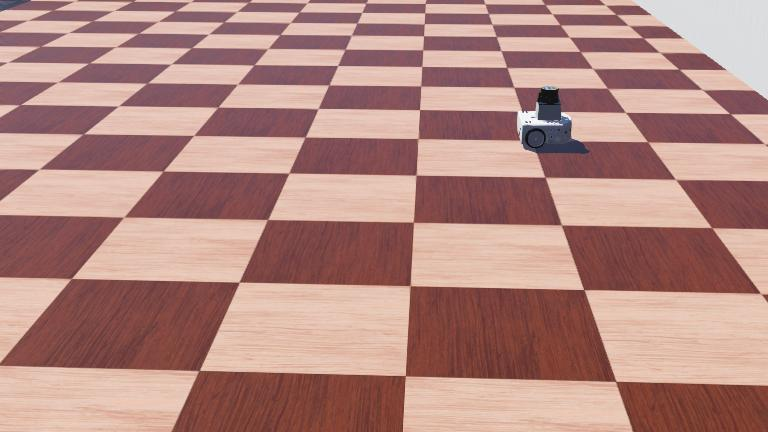
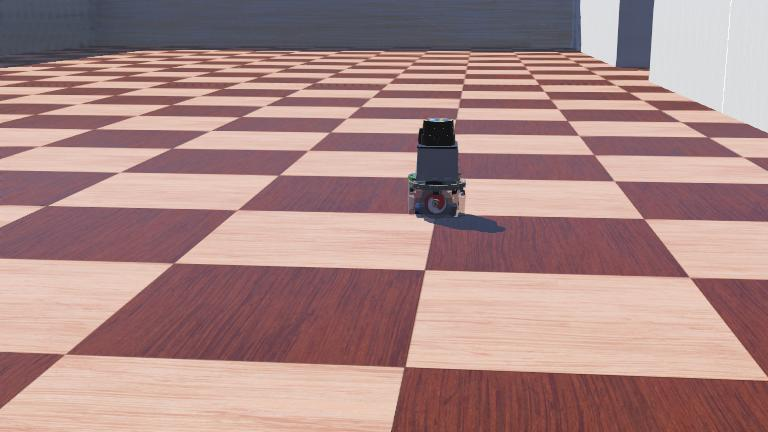
Basic odometry

diff --git a/controllers/lidar_python/lidar_python.py b/controllers/lidar_python/lidar_python.py
@@ -1,71 +1,64 @@
-"""lidar_python controller."""
+#!/usr/bin/env python3
 
-# You may need to import some classes of the controller module. Ex:
-#  from controller import Robot, Motor, DistanceSensor
+"""lidar_python controller."""
 from controller import Robot
 from controller import Motor
 from controller import LidarPoint
-
-import sys
-print("Python version")
-print (sys.path)
-
 import numpy as np
 
-# create the Robot instance.
+
 robot = Robot()
-print(robot.getNumberOfDevices())
-for i in range(robot.getNumberOfDevices()):
-    a = robot.getDeviceByIndex(i)
-    print(i, a, a.getName())
+
+
 lidar = robot.getDevice("Lidar")
 gps = robot.getDevice("gps")
-motor_l = robot.getDevice("motor.left")
-motor_r = robot.getDevice("motor.right")
+motor_l = robot.getDevice("left wheel motor")
+motor_r = robot.getDevice("right wheel motor")
+sensor_l = robot.getDevice("left wheel sensor")
+sensor_r = robot.getDevice("right wheel sensor")
 
-# print(motor)
-print('hi')
 
-# get the time step of the current world.
-timestep = int(robot.getBasicTimeStep())
+timestep = 1 #int(robot.getBasicTimeStep())
+
 
 lidar.enable(timestep)
+gps.enable(timestep)
+sensor_l.enable(timestep)
+sensor_r.enable(timestep)
 motor_l.setPosition(float('inf'))
 motor_r.setPosition(float('inf'))
 
-# You should insert a getDevice-like function in order to get the
-# instance of a device of the robot. Something like:
-#  motor = robot.getDevice('motorname')
-#  ds = robot.getDevice('dsname')
-#  ds.enable(timestep)
-def move_forward(u):
-    motor_l.setVelocity(u)
-    motor_r.setVelocity(u)
+
+wheel_R = 0.0201
+dist_between = 0.052
+odometry_state = np.array([0, 0, 0],dtype=float)
+pos_prev = [0, 0]
+
+def odometry_diff():
+    global pos_prev
+    pos_l = sensor_l.getValue()
+    pos_r = sensor_r.getValue()
+    
+    diff_l = (pos_l - pos_prev[0])*wheel_R
+    diff_r = (pos_r - pos_prev[1])*wheel_R
+    
+    dtheta = (diff_r - diff_l)/dist_between
+    dx = (diff_l + diff_r)/2.0 * np.cos(odometry_state[2]+dtheta)
+    dy = (diff_l + diff_r)/2.0 * np.sin(odometry_state[2]+dtheta)
+    pos_prev = [pos_l, pos_r]
+    print(dx,dy,dtheta)
+    return np.array([dx,dy,dtheta])
 
 
-def turn_right(u):
-    motor_l.setVelocity(u)
-    motor_r.setVelocity(-u)
-
-# Main loop:
-i = 1
-# - perform simulation steps until Webots is stopping the controller
 while robot.step(timestep) != -1:
-    a = np.array(lidar.getRangeImage())
-    # print(a[a.shape[0]//2])
-    # motor_bl.setVelocity(1)
-    # motor_br.setVelocity(1)
-    # motor_fl.setVelocity(1)
-    # motor_fr.setVelocity(1)
-    turn_right(5)
-    # Read the sensors:
-    # Enter here functions to read sensor data, like:
-    #  val = ds.getValue()
+    gps_data = np.array(gps.getValues())
+    # print(odometry_state[-1]/np.pi*180)
+    # print(np.sqrt(np.sum((gps_data[:-1]-odometry_state[:-1])**2)))
+    # print(gps_data[:-1],odometry_state)
+    motor_l.setVelocity(-5)
+    motor_r.setVelocity(-4)
+    
+    odometry_state += odometry_diff()
 
-    # Process sensor data here.
-
-    # Enter here functions to send actuator commands, like:
-    #  motor.setPosition(10.0)
-    pass
-
-# Enter here exit cleanup code.
+    lidar_data = np.array(lidar.getRangeImage())
+    
